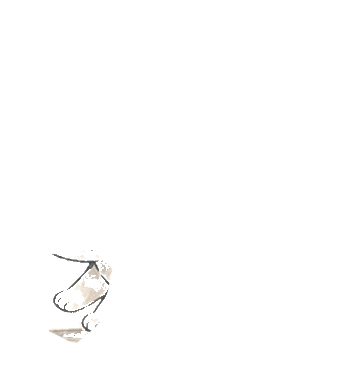
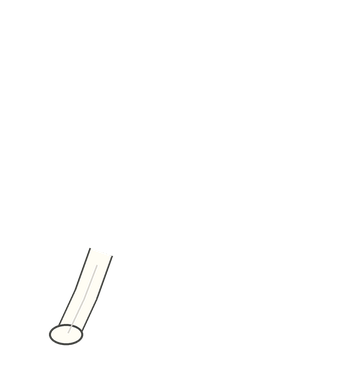
Improve public preview pet visibility

Changed region(s): [[0.1222, 0.6429, 0.3056, 0.8878], [0.3056, 0.6429, 0.3361, 0.6735]]

diff --git a/styles.css b/styles.css
@@ -24,16 +24,16 @@ button { font: inherit; }
 .page-shell {
   min-height: 100vh;
   display: grid;
-  grid-template-columns: minmax(300px, 0.86fr) minmax(420px, 1.14fr);
-  gap: clamp(24px, 4vw, 56px);
+  grid-template-columns: minmax(260px, 0.7fr) minmax(560px, 1.3fr);
+  gap: clamp(18px, 3vw, 42px);
   align-items: center;
-  padding: clamp(28px, 5vw, 72px);
+  padding: clamp(22px, 4vw, 52px);
 }
 
-.control-panel { display: flex; flex-direction: column; gap: 28px; max-width: 540px; }
+.control-panel { display: flex; flex-direction: column; gap: 22px; max-width: 460px; }
 .eyebrow { margin: 0 0 10px; color: var(--accent-strong); font-size: 13px; font-weight: 800; text-transform: uppercase; }
-h1 { margin: 0; color: var(--ink); font-size: clamp(38px, 6vw, 74px); line-height: 0.94; letter-spacing: 0; }
-.intro { max-width: 28rem; margin: 22px 0 0; color: var(--muted); font-size: 17px; line-height: 1.72; }
+h1 { margin: 0; color: var(--ink); font-size: clamp(34px, 4.6vw, 58px); line-height: 1; letter-spacing: 0; }
+.intro { max-width: 28rem; margin: 18px 0 0; color: var(--muted); font-size: 16px; line-height: 1.64; }
 
 .status-strip {
   display: grid;
@@ -63,7 +63,7 @@ h1 { margin: 0; color: var(--ink); font-size: clamp(38px, 6vw, 74px); line-heigh
 
 .desktop-scene {
   position: relative;
-  min-height: min(680px, 78vh);
+  min-height: min(760px, 82vh);
   overflow: hidden;
   border: 1px solid rgba(255, 255, 255, 0.68);
   border-radius: 8px;
@@ -86,10 +86,10 @@ h1 { margin: 0; color: var(--ink); font-size: clamp(38px, 6vw, 74px); line-heigh
 }
 .desktop-scene::after {
   bottom: 0;
-  height: 28%;
+  height: 20%;
   background:
-    linear-gradient(to top, rgba(80, 66, 54, 0.28), transparent),
-    repeating-linear-gradient(100deg, rgba(99, 79, 57, 0.22) 0 3px, transparent 3px 18px);
+    linear-gradient(to top, rgba(80, 66, 54, 0.18), rgba(80, 66, 54, 0.03) 62%, transparent),
+    repeating-linear-gradient(100deg, rgba(99, 79, 57, 0.12) 0 2px, transparent 2px 26px);
 }
 
 .desktop-bar { position: absolute; top: 18px; left: 18px; display: flex; gap: 8px; }
@@ -100,11 +100,11 @@ h1 { margin: 0; color: var(--ink); font-size: clamp(38px, 6vw, 74px); line-heigh
 
 .bubble {
   position: absolute;
-  right: clamp(26px, 7vw, 92px);
-  bottom: clamp(310px, 43vh, 382px);
-  min-width: 116px;
-  max-width: 190px;
-  padding: 12px 16px;
+  left: 50%;
+  bottom: clamp(470px, 58vh, 560px);
+  min-width: 132px;
+  max-width: 220px;
+  padding: 13px 18px;
   border: 1px solid rgba(54, 50, 45, 0.18);
   border-radius: 18px;
   background: rgba(255, 255, 255, 0.86);
@@ -115,6 +115,7 @@ h1 { margin: 0; color: var(--ink); font-size: clamp(38px, 6vw, 74px); line-heigh
   box-shadow: 0 10px 26px rgba(42, 36, 30, 0.14);
   backdrop-filter: blur(10px);
   z-index: 3;
+  transform: translateX(18%);
 }
 .bubble::after {
   content: "";
@@ -131,12 +132,13 @@ h1 { margin: 0; color: var(--ink); font-size: clamp(38px, 6vw, 74px); line-heigh
 
 .pet-rig {
   position: absolute;
-  right: clamp(24px, 9vw, 116px);
-  bottom: 34px;
-  width: clamp(188px, 25vw, 292px);
+  left: 50%;
+  bottom: clamp(48px, 8vh, 76px);
+  width: clamp(360px, 42vw, 520px);
   aspect-ratio: 360 / 392;
   transform-origin: 50% 88%;
   z-index: 2;
+  transform: translateX(-50%);
 }
 .pet-shadow {
   position: absolute;
@@ -179,12 +181,12 @@ h1 { margin: 0; color: var(--ink); font-size: clamp(38px, 6vw, 74px); line-heigh
 @keyframes idle-head { 0%, 100% { transform: rotate(0deg); } 50% { transform: rotate(1.2deg); } }
 @keyframes tail-sway { 0%, 100% { transform: rotate(-3deg); } 50% { transform: rotate(6deg); } }
 @keyframes shadow-breathe { 0%, 100% { transform: scaleX(0.96); opacity: 0.62; } 50% { transform: scaleX(1.04); opacity: 0.76; } }
-@keyframes walk-forward { 0%, 100% { transform: translateX(-18px); } 50% { transform: translateX(18px); } }
-@keyframes walk-core { 0%, 100% { transform: translateY(0) rotate(0.8deg); } 25% { transform: translateY(-3px) rotate(0deg); } 50% { transform: translateY(0) rotate(-0.8deg); } 75% { transform: translateY(-3px) rotate(0deg); } }
-@keyframes leg-a { 0%, 100% { transform: translate(2px, 0) rotate(-7deg); } 35% { transform: translate(-1px, -7px) rotate(5deg); } 55% { transform: translate(-3px, 0) rotate(8deg); } }
-@keyframes leg-b { 0%, 100% { transform: translate(-2px, -5px) rotate(7deg); } 45% { transform: translate(2px, 0) rotate(-8deg); } 70% { transform: translate(1px, -2px) rotate(-2deg); } }
-@keyframes walk-tail { 0%, 100% { transform: rotate(-5deg); } 50% { transform: rotate(7deg); } }
-@keyframes walk-head { 0%, 100% { transform: translateY(0) rotate(-0.6deg); } 50% { transform: translateY(-2px) rotate(0.8deg); } }
+@keyframes walk-forward { 0%, 100% { transform: translateX(calc(-50% - 26px)); } 50% { transform: translateX(calc(-50% + 26px)); } }
+@keyframes walk-core { 0%, 100% { transform: translateY(0) rotate(0.45deg); } 25% { transform: translateY(-1.5px) rotate(0deg); } 50% { transform: translateY(0) rotate(-0.45deg); } 75% { transform: translateY(-1.5px) rotate(0deg); } }
+@keyframes leg-a { 0%, 100% { transform: translate(1px, 0) rotate(-5deg); } 35% { transform: translate(-1px, -4px) rotate(3deg); } 55% { transform: translate(-2px, 0) rotate(5deg); } }
+@keyframes leg-b { 0%, 100% { transform: translate(-1px, -3px) rotate(5deg); } 45% { transform: translate(1px, 0) rotate(-5deg); } 70% { transform: translate(1px, -1px) rotate(-1deg); } }
+@keyframes walk-tail { 0%, 100% { transform: rotate(-3.2deg); } 50% { transform: rotate(4deg); } }
+@keyframes walk-head { 0%, 100% { transform: translateY(0) rotate(-0.25deg); } 50% { transform: translateY(-1px) rotate(0.35deg); } }
 @keyframes groom-core { 0%, 100% { transform: translateX(0); } 45%, 70% { transform: translateX(3px); } }
 @keyframes groom-paw { 0%, 100% { transform: translate(0, 0) rotate(0deg); } 24%, 70% { transform: translate(-8px, -40px) rotate(-18deg); } 46% { transform: translate(-2px, -48px) rotate(-27deg); } }
 @keyframes groom-head { 0%, 100% { transform: rotate(0deg); } 34%, 74% { transform: translateX(-4px) rotate(4deg); } }
@@ -199,14 +201,14 @@ h1 { margin: 0; color: var(--ink); font-size: clamp(38px, 6vw, 74px); line-heigh
 @media (max-width: 860px) {
   .page-shell { grid-template-columns: 1fr; padding: 24px; }
   .control-panel { max-width: none; }
-  .desktop-scene { min-height: 540px; }
-  .bubble { right: 42px; bottom: 288px; }
-  .pet-rig { right: 40px; width: 218px; }
+  .desktop-scene { min-height: 640px; }
+  .bubble { left: 50%; bottom: 420px; transform: translateX(-5%); }
+  .pet-rig { left: 50%; width: min(420px, 78vw); }
 }
 
 @media (max-width: 520px) {
   .action-grid { grid-template-columns: repeat(2, minmax(0, 1fr)); }
-  .desktop-scene { min-height: 500px; }
-  .bubble { right: 24px; bottom: 270px; }
-  .pet-rig { right: 20px; width: 190px; }
+  .desktop-scene { min-height: 560px; }
+  .bubble { bottom: 358px; }
+  .pet-rig { width: min(340px, 86vw); }
 }
